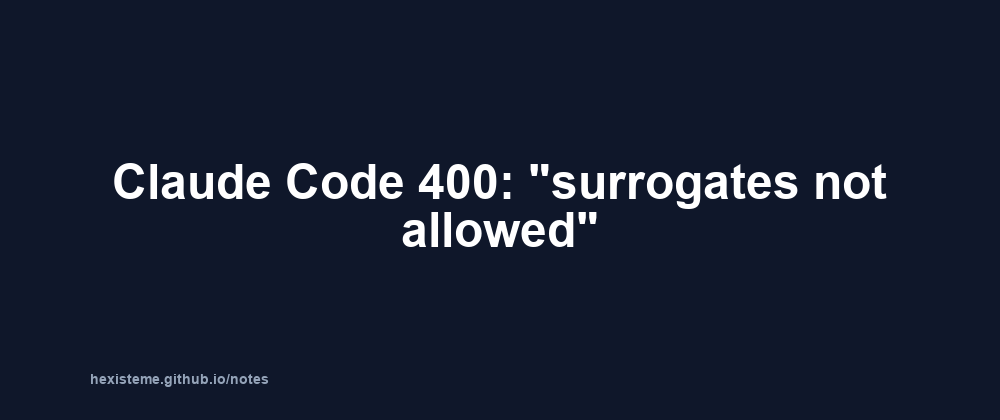
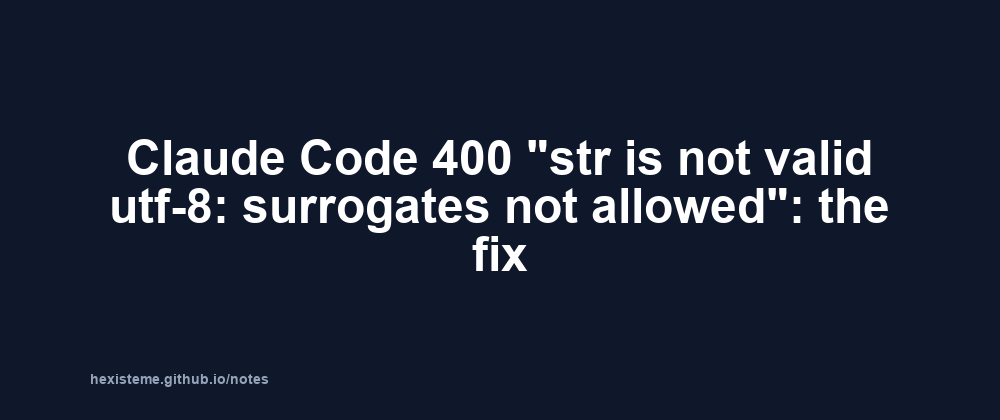
notes: retitle claude-code-400 page for SERP query match (GSC D8: 1,508 impr / 0.3% CTR @ pos 6.9)
Claude-Session: https://claude.ai/code/session_01MArpzBFGKGVcWXg7sHTJNL

Changed region(s): [[0.093, 0.3095, 0.899, 0.65]]

diff --git a/notes/claude-code-400-no-low-surrogate-jsonl-repair.html b/notes/claude-code-400-no-low-surrogate-jsonl-repair.html
@@ -3,8 +3,8 @@
 <head>
 <meta charset="utf-8">
 <meta name="viewport" content="width=device-width,initial-scale=1">
-<title>Claude Code 400: &quot;surrogates not allowed&quot; — hexisteme notes</title>
-<meta name="description" content="A Claude Code session throwing 400 &quot;no low surrogate in string&quot; or &quot;surrogates not allowed&quot; is poisoned by the same lone UTF-16 surrogate. Here's the fix.">
+<title>Claude Code 400 &quot;str is not valid utf-8: surrogates not allowed&quot;: the fix — hexisteme notes</title>
+<meta name="description" content="Every turn fails with API Error: 400 &quot;the request body is not valid json: str is not valid utf-8: surrogates not allowed&quot;? One lone UTF-16 surrogate in the session JSONL poisons the whole transcript. Find and repair that line in five minutes — script included. Also fixes &quot;no low surrogate in string&quot;.">
 <style>
 body{font:16px/1.75 -apple-system,system-ui,sans-serif;max-width:780px;margin:0 auto;padding:28px 24px;color:#1a1a1a}
 a{color:#0969da}h1{font-size:26px;line-height:1.3;margin-bottom:6px}h2{font-size:19px;margin-top:36px;border-bottom:1px solid #e8e8e8;padding-bottom:5px}h3{font-size:16px;margin-top:24px}
@@ -20,8 +20,8 @@ table{border-collapse:collapse;width:100%;margin:14px 0}th,td{border:1px solid #
 <meta name="robots" content="max-image-preview:large">
 <meta name="author" content="hexisteme">
 <meta property="og:type" content="article">
-<meta property="og:title" content="Claude Code 400: &quot;surrogates not allowed&quot;">
-<meta property="og:description" content="A Claude Code session throwing 400 &quot;no low surrogate in string&quot; or &quot;surrogates not allowed&quot; is poisoned by the same lone UTF-16 surrogate. Here&#x27;s the fix.">
+<meta property="og:title" content="Claude Code 400 &quot;str is not valid utf-8: surrogates not allowed&quot;: the fix">
+<meta property="og:description" content="Every turn fails with API Error: 400 &quot;the request body is not valid json: str is not valid utf-8: surrogates not allowed&quot;? One lone UTF-16 surrogate in the session JSONL poisons the whole transcript. Find and repair that line in five minutes — script included. Also fixes &quot;no low surrogate in string&quot;.">
 <meta property="og:url" content="https://hexisteme.github.io/notes/claude-code-400-no-low-surrogate-jsonl-repair.html">
 <meta property="og:site_name" content="hexisteme notes">
 <meta property="og:image" content="https://hexisteme.github.io/notes/og/claude-code-400-no-low-surrogate-jsonl-repair.png">
@@ -29,8 +29,8 @@ table{border-collapse:collapse;width:100%;margin:14px 0}th,td{border:1px solid #
 <meta property="og:image:height" content="630">
 <meta property="article:published_time" content="2026-06-23">
 <meta name="twitter:card" content="summary_large_image">
-<meta name="twitter:title" content="Claude Code 400: &quot;surrogates not allowed&quot;">
-<meta name="twitter:description" content="A Claude Code session throwing 400 &quot;no low surrogate in string&quot; or &quot;surrogates not allowed&quot; is poisoned by the same lone UTF-16 surrogate. Here&#x27;s the fix.">
+<meta name="twitter:title" content="Claude Code 400 &quot;str is not valid utf-8: surrogates not allowed&quot;: the fix">
+<meta name="twitter:description" content="Every turn fails with API Error: 400 &quot;the request body is not valid json: str is not valid utf-8: surrogates not allowed&quot;? One lone UTF-16 surrogate in the session JSONL poisons the whole transcript. Find and repair that line in five minutes — script included. Also fixes &quot;no low surrogate in string&quot;.">
 <meta name="twitter:image" content="https://hexisteme.github.io/notes/og/claude-code-400-no-low-surrogate-jsonl-repair.png">
 <script type="application/ld+json">{"@context": "https://schema.org", "@type": "TechArticle", "headline": "Claude Code \"400: no low surrogate in string\" on every turn: repairing a permanently broken session transcript", "datePublished": "2026-06-23", "dateModified": "2026-06-23", "inLanguage": "en", "author": {"@type": "Person", "name": "hexisteme", "url": "https://hexisteme.github.io/"}, "about": "Claude Code API Error 400 'the request body is not valid JSON: no low surrogate in string' every turn — how to fix a permanently broken session", "publisher": {"@type": "Organization", "name": "hexisteme", "url": "https://hexisteme.github.io/"}, "image": "https://hexisteme.github.io/notes/og/claude-code-400-no-low-surrogate-jsonl-repair.png"}</script>
 <script type="application/ld+json">
